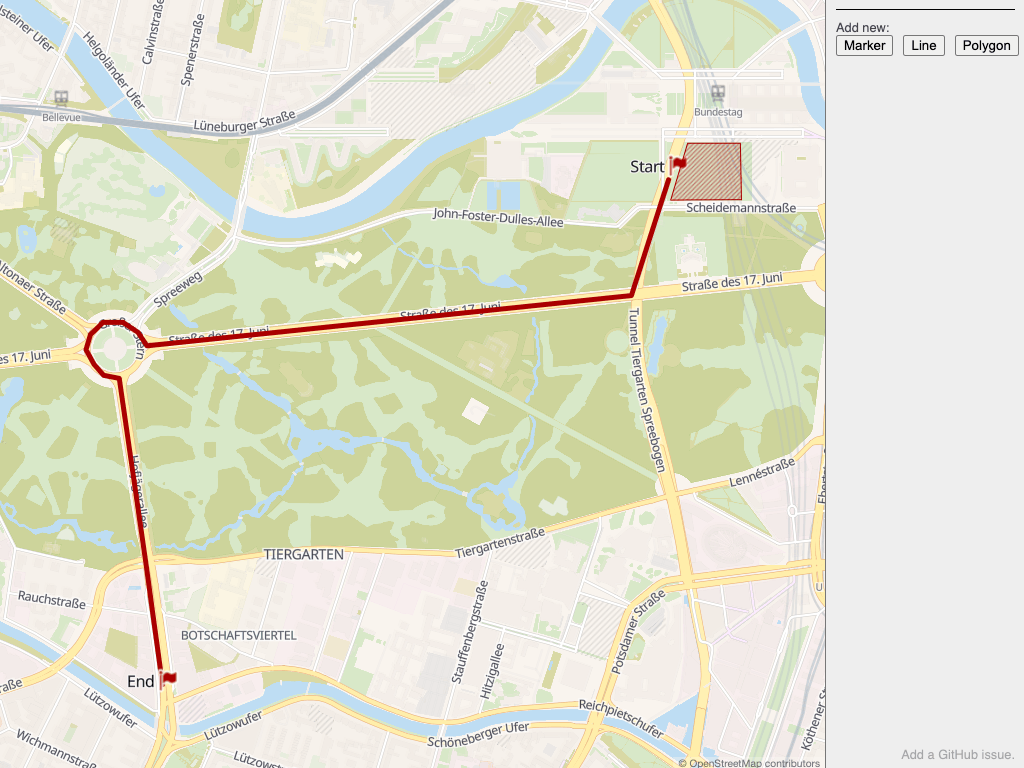
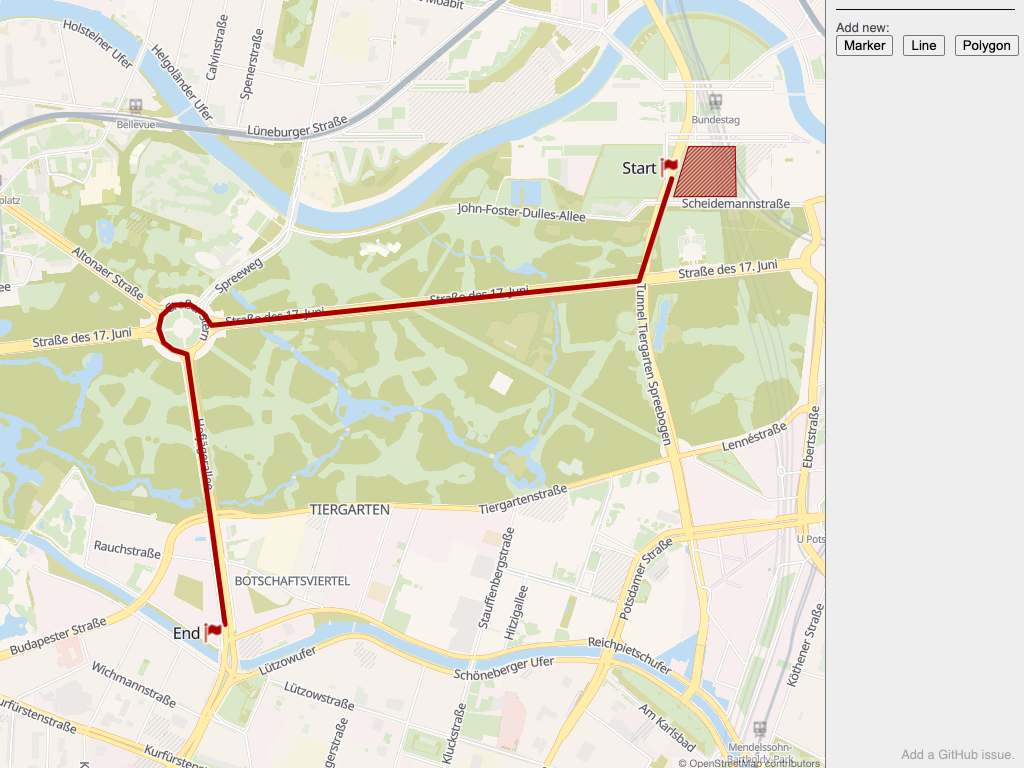
feat (MapEditor): allow labels without symbols, close #13

diff --git a/src/lib/components/MapEditor/lib/map_layer/symbol.ts b/src/lib/components/MapEditor/lib/map_layer/symbol.ts
@@ -6,92 +6,120 @@ import type { GeometryManager } from '../geometry_manager.js';
 import type { StateObject } from '../state/types.js';
 import { defaultState } from '../state/index.js';
 
-export const symbols = new Map<number, { name: string; image: string; offset?: [number, number] }>([
-	[0, { name: 'airplane', image: 'basics:icon-airfield' }],
-	[1, { name: 'airport', image: 'basics:icon-airport' }],
-	[2, { name: 'alcohol shop', image: 'basics:icon-alcohol_shop' }],
-	[3, { name: 'art gallery', image: 'basics:icon-art_gallery' }],
-	[4, { name: 'artwork', image: 'basics:icon-artwork' }],
-	[5, { name: 'atm', image: 'basics:icon-atm' }],
-	[6, { name: 'bakery', image: 'basics:icon-bakery' }],
-	[7, { name: 'bank', image: 'basics:icon-bank' }],
-	[8, { name: 'beauty', image: 'basics:icon-beauty' }],
-	[9, { name: 'beer', image: 'basics:icon-beer' }],
-	[10, { name: 'beergarden', image: 'basics:icon-beergarden' }],
-	[11, { name: 'bench', image: 'basics:icon-bench' }],
-	[12, { name: 'beverages', image: 'basics:icon-beverages' }],
-	[13, { name: 'bicycle share', image: 'basics:icon-bicycle_share' }],
-	[14, { name: 'books', image: 'basics:icon-books' }],
-	[15, { name: 'bus', image: 'basics:icon-bus' }],
-	[16, { name: 'butcher', image: 'basics:icon-butcher' }],
-	[17, { name: 'cafe', image: 'basics:icon-cafe', offset: [2, 0] }],
-	[18, { name: 'car rental', image: 'basics:icon-car_rental' }],
-	[19, { name: 'car wash', image: 'basics:icon-car_wash' }],
-	[20, { name: 'castle', image: 'basics:icon-castle' }],
-	[21, { name: 'cemetery', image: 'basics:icon-cemetery' }],
-	[22, { name: 'chalet', image: 'basics:icon-chalet' }],
-	[23, { name: 'chemist', image: 'basics:icon-chemist' }],
-	[24, { name: 'cinema', image: 'basics:icon-cinema' }],
-	[25, { name: 'clothes', image: 'basics:icon-clothes' }],
-	[26, { name: 'college', image: 'basics:icon-college' }],
-	[27, { name: 'community', image: 'basics:icon-community' }],
-	[28, { name: 'defibrillator', image: 'basics:icon-defibrillator' }],
-	[29, { name: 'doctor', image: 'basics:icon-doctor' }],
-	[30, { name: 'dog park', image: 'basics:icon-dog_park' }],
-	[31, { name: 'doityourself', image: 'basics:icon-doityourself' }],
-	[32, { name: 'drinking water', image: 'basics:icon-drinking_water' }],
-	[33, { name: 'drycleaning', image: 'basics:icon-drycleaning' }],
-	[34, { name: 'emergency phone', image: 'basics:icon-emergency_phone' }],
-	[35, { name: 'fast food', image: 'basics:icon-fast_food' }],
-	[36, { name: 'fire station', image: 'basics:icon-fire_station' }],
-	[37, { name: 'flag', image: 'basics:icon-embassy', offset: [7.5, -10] }],
-	[38, { name: 'florist', image: 'basics:icon-florist' }],
-	[39, { name: 'fountain', image: 'basics:icon-fountain' }],
-	[40, { name: 'furniture', image: 'basics:icon-furniture' }],
-	[41, { name: 'garden centre', image: 'basics:icon-garden_centre' }],
-	[42, { name: 'gift', image: 'basics:icon-gift' }],
-	[43, { name: 'glasses', image: 'basics:icon-optician' }],
-	[44, { name: 'golf', image: 'basics:icon-golf' }],
-	[45, { name: 'greengrocer', image: 'basics:icon-greengrocer' }],
-	[46, { name: 'hardware', image: 'basics:icon-hardware' }],
-	[47, { name: 'hospital', image: 'basics:icon-hospital' }],
-	[48, { name: 'huntingstand', image: 'basics:icon-huntingstand' }],
-	[49, { name: 'hydrant', image: 'basics:icon-hydrant' }],
-	[50, { name: 'icerink', image: 'basics:icon-icerink' }],
-	[51, { name: 'information', image: 'basics:transport-information' }],
-	[52, { name: 'jewelry store', image: 'basics:icon-jewelry_store' }],
-	[53, { name: 'kiosk', image: 'basics:icon-kiosk' }],
-	[54, { name: 'laundry', image: 'basics:icon-laundry' }],
-	[55, { name: 'letter', image: 'basics:icon-post' }],
-	[56, { name: 'library', image: 'basics:icon-library' }],
-	[57, { name: 'lighthouse', image: 'basics:icon-lighthouse' }],
-	[58, { name: 'marketplace', image: 'basics:icon-marketplace' }],
-	[59, { name: 'money', image: 'basics:icon-bar' }],
-	[60, { name: 'monument', image: 'basics:icon-monument' }],
-	[61, { name: 'newsagent', image: 'basics:icon-newsagent' }],
-	[62, { name: 'nightclub', image: 'basics:icon-nightclub' }],
-	[63, { name: 'nursinghome', image: 'basics:icon-nursinghome' }],
-	[64, { name: 'observation tower', image: 'basics:icon-observation_tower' }],
-	[65, { name: 'outdoor', image: 'basics:icon-outdoor' }],
-	[66, { name: 'pharmacy', image: 'basics:icon-pharmacy' }],
-	[67, { name: 'picnic site', image: 'basics:icon-picnic_site' }],
-	[68, { name: 'place of worship', image: 'basics:icon-place_of_worship' }],
-	[69, { name: 'playground', image: 'basics:icon-playground' }],
-	[70, { name: 'police', image: 'basics:icon-police', offset: [-1, -3] }],
-	[71, { name: 'postbox', image: 'basics:icon-postbox' }],
-	[72, { name: 'prison', image: 'basics:icon-prison' }],
-	[73, { name: 'rail light', image: 'basics:icon-rail_light' }],
-	[74, { name: 'rail metro', image: 'basics:icon-rail_metro' }],
-	[75, { name: 'rail', image: 'basics:icon-rail' }],
-	[76, { name: 'recycling', image: 'basics:icon-recycling' }],
-	[77, { name: 'restaurant', image: 'basics:icon-restaurant' }],
-	[78, { name: 'run', image: 'basics:icon-pitch' }],
-	[79, { name: 'school', image: 'basics:icon-school' }],
-	[80, { name: 'scissor', image: 'basics:icon-hairdresser' }],
-	[81, { name: 'shield', image: 'basics:icon-historic', offset: [0, -10] }],
-	[82, { name: 'shoes', image: 'basics:icon-shoes', offset: [-5, 0] }],
-	[83, { name: 'shop', image: 'basics:icon-shop' }],
-	[84, { name: 'shop', image: 'basics:icon-shop' }],
+export const symbols = new Map<number, { name: string; image?: string; offset?: [number, number] }>(
+	[
+		[0, { name: 'none', image: undefined }],
+		[1, { name: 'airplane', image: 'basics:icon-airfield' }],
+		[2, { name: 'airport', image: 'basics:icon-airport' }],
+		[3, { name: 'alcohol shop', image: 'basics:icon-alcohol_shop' }],
+		[4, { name: 'art gallery', image: 'basics:icon-art_gallery' }],
+		[5, { name: 'artwork', image: 'basics:icon-artwork' }],
+		[6, { name: 'atm', image: 'basics:icon-atm' }],
+		[7, { name: 'bakery', image: 'basics:icon-bakery' }],
+		[8, { name: 'bank', image: 'basics:icon-bank' }],
+		[9, { name: 'beauty', image: 'basics:icon-beauty' }],
+		[10, { name: 'beer', image: 'basics:icon-beer' }],
+		[11, { name: 'beergarden', image: 'basics:icon-beergarden' }],
+		[12, { name: 'bench', image: 'basics:icon-bench' }],
+		[13, { name: 'beverages', image: 'basics:icon-beverages' }],
+		[14, { name: 'bicycle share', image: 'basics:icon-bicycle_share' }],
+		[15, { name: 'books', image: 'basics:icon-books' }],
+		[16, { name: 'bus', image: 'basics:icon-bus' }],
+		[17, { name: 'butcher', image: 'basics:icon-butcher' }],
+		[18, { name: 'cafe', image: 'basics:icon-cafe', offset: [2, 0] }],
+		[19, { name: 'car rental', image: 'basics:icon-car_rental' }],
+		[20, { name: 'car wash', image: 'basics:icon-car_wash' }],
+		[21, { name: 'castle', image: 'basics:icon-castle' }],
+		[22, { name: 'cemetery', image: 'basics:icon-cemetery' }],
+		[23, { name: 'chalet', image: 'basics:icon-chalet' }],
+		[24, { name: 'chemist', image: 'basics:icon-chemist' }],
+		[25, { name: 'cinema', image: 'basics:icon-cinema' }],
+		[26, { name: 'clothes', image: 'basics:icon-clothes' }],
+		[27, { name: 'college', image: 'basics:icon-college' }],
+		[28, { name: 'community', image: 'basics:icon-community' }],
+		[29, { name: 'defibrillator', image: 'basics:icon-defibrillator' }],
+		[30, { name: 'doctor', image: 'basics:icon-doctor' }],
+		[31, { name: 'dog park', image: 'basics:icon-dog_park' }],
+		[32, { name: 'doityourself', image: 'basics:icon-doityourself' }],
+		[33, { name: 'drinking water', image: 'basics:icon-drinking_water' }],
+		[34, { name: 'drycleaning', image: 'basics:icon-drycleaning' }],
+		[35, { name: 'emergency phone', image: 'basics:icon-emergency_phone' }],
+		[36, { name: 'fast food', image: 'basics:icon-fast_food' }],
+		[37, { name: 'fire station', image: 'basics:icon-fire_station' }],
+		[38, { name: 'flag', image: 'basics:icon-embassy', offset: [0, 0] }],
+		[39, { name: 'florist', image: 'basics:icon-florist' }],
+		[40, { name: 'fountain', image: 'basics:icon-fountain' }],
+		[41, { name: 'furniture', image: 'basics:icon-furniture' }],
+		[42, { name: 'garden centre', image: 'basics:icon-garden_centre' }],
+		[43, { name: 'gift', image: 'basics:icon-gift' }],
+		[44, { name: 'glasses', image: 'basics:icon-optician' }],
+		[45, { name: 'golf', image: 'basics:icon-golf' }],
+		[46, { name: 'greengrocer', image: 'basics:icon-greengrocer' }],
+		[47, { name: 'hardware', image: 'basics:icon-hardware' }],
+		[48, { name: 'hospital', image: 'basics:icon-hospital' }],
+		[49, { name: 'huntingstand', image: 'basics:icon-huntingstand' }],
+		[50, { name: 'hydrant', image: 'basics:icon-hydrant' }],
+		[51, { name: 'icerink', image: 'basics:icon-icerink' }],
+		[52, { name: 'information', image: 'basics:transport-information' }],
+		[53, { name: 'jewelry store', image: 'basics:icon-jewelry_store' }],
+		[54, { name: 'kiosk', image: 'basics:icon-kiosk' }],
+		[55, { name: 'laundry', image: 'basics:icon-laundry' }],
+		[56, { name: 'letter', image: 'basics:icon-post' }],
+		[57, { name: 'library', image: 'basics:icon-library' }],
+		[58, { name: 'lighthouse', image: 'basics:icon-lighthouse' }],
+		[59, { name: 'marketplace', image: 'basics:icon-marketplace' }],
+		[60, { name: 'money', image: 'basics:icon-bar' }],
+		[61, { name: 'monument', image: 'basics:icon-monument' }],
+		[62, { name: 'newsagent', image: 'basics:icon-newsagent' }],
+		[63, { name: 'nightclub', image: 'basics:icon-nightclub' }],
+		[64, { name: 'nursinghome', image: 'basics:icon-nursinghome' }],
+		[65, { name: 'observation tower', image: 'basics:icon-observation_tower' }],
+		[66, { name: 'outdoor', image: 'basics:icon-outdoor' }],
+		[67, { name: 'pharmacy', image: 'basics:icon-pharmacy' }],
+		[68, { name: 'picnic site', image: 'basics:icon-picnic_site' }],
+		[69, { name: 'place of worship', image: 'basics:icon-place_of_worship' }],
+		[70, { name: 'playground', image: 'basics:icon-playground' }],
+		[71, { name: 'police', image: 'basics:icon-police', offset: [-1, -3] }],
+		[72, { name: 'postbox', image: 'basics:icon-postbox' }],
+		[73, { name: 'prison', image: 'basics:icon-prison' }],
+		[74, { name: 'rail light', image: 'basics:icon-rail_light' }],
+		[75, { name: 'rail metro', image: 'basics:icon-rail_metro' }],
+		[76, { name: 'rail', image: 'basics:icon-rail' }],
+		[77, { name: 'recycling', image: 'basics:icon-recycling' }],
+		[78, { name: 'restaurant', image: 'basics:icon-restaurant' }],
+		[79, { name: 'run', image: 'basics:icon-pitch' }],
+		[80, { name: 'school', image: 'basics:icon-school' }],
+		[81, { name: 'scissor', image: 'basics:icon-hairdresser' }],
+		[82, { name: 'shield', image: 'basics:icon-historic', offset: [0, -10] }],
+		[83, { name: 'shoes', image: 'basics:icon-shoes', offset: [-5, 0] }],
+		[84, { name: 'shop', image: 'basics:icon-shop' }],
+		[85, { name: 'shop', image: 'basics:icon-shop' }],
+		[86, { name: 'shrine', image: 'basics:icon-shrine' }],
+		[87, { name: 'sports', image: 'basics:icon-sports' }],
+		[88, { name: 'stadium', image: 'basics:icon-stadium' }],
+		[89, { name: 'stationery', image: 'basics:icon-stationery' }],
+		[90, { name: 'surveillance', image: 'basics:icon-surveillance' }],
+		[91, { name: 'swimming', image: 'basics:icon-swimming' }],
+		[92, { name: 'telephone', image: 'basics:icon-telephone' }],
+		[93, { name: 'theatre', image: 'basics:icon-theatre' }],
+		[94, { name: 'toilet', image: 'basics:icon-toilet' }],
+		[95, { name: 'tooth', image: 'basics:icon-dentist' }],
+		[96, { name: 'town hall', image: 'basics:icon-town_hall' }],
+		[97, { name: 'toys', image: 'basics:icon-toys' }],
+		[98, { name: 'tram', image: 'basics:transport-tram' }],
+		[99, { name: 'travel agent', image: 'basics:icon-travel_agent' }],
+		[100, { name: 'vendingmachine', image: 'basics:icon-vendingmachine' }],
+		[101, { name: 'veterinary', image: 'basics:icon-veterinary' }],
+		[102, { name: 'video', image: 'basics:icon-video' }],
+		[103, { name: 'viewpoint', image: 'basics:icon-viewpoint', offset: [0, -6] }],
+		[104, { name: 'waste basket', image: 'basics:icon-waste_basket' }],
+		[105, { name: 'watermill', image: 'basics:icon-watermill' }],
+		[106, { name: 'waterpark', image: 'basics:icon-waterpark' }],
+		[107, { name: 'windmill', image: 'basics:icon-windmill' }],
+		[108, { name: 'zoo', image: 'basics:icon-zoo' }]
+	]
+);
+
 const defaultStyle = {
 	color: '#ff0000',
 	rotate: 0,
@@ -133,8 +161,9 @@ export class MapLayerSymbol extends MapLayer<LayerSymbol> {
 				'text-field': defaultStyle.label,
 				'text-font': ['noto_sans_regular'],
 				'text-justify': 'left',
-				'text-anchor': 'right',
-				'text-offset': [-0.4, -0.6]
+				'text-optional': true,
+				'text-offset': [0.7, 0.7],
+				'text-variable-anchor': ['right', 'left', 'top', 'bottom']
 			},
 			{
 				'icon-color': defaultStyle.color,
@@ -160,8 +189,14 @@ export class MapLayerSymbol extends MapLayer<LayerSymbol> {
 			this.updateLayout('text-size', v * 16);
 		});
 		this.symbol.subscribe((v) => {
-			this.updateLayout('icon-image', v.image);
-			this.updateLayout('icon-offset', v.offset);
+			if (v.image == null) {
+				this.updateLayout('icon-image', undefined);
+				this.updateLayout('text-variable-anchor', ['center']);
+			} else {
+				this.updateLayout('icon-image', v.image);
+				this.updateLayout('text-variable-anchor', ['right', 'left', 'top', 'bottom']);
+				this.updateLayout('icon-offset', v.offset);
+			}
 		});
 	}
 

diff --git a/scripts/screenshots.ts b/scripts/screenshots.ts
@@ -20,7 +20,7 @@ mkdirSync(path, { recursive: true });
 		{ name: 'locator-map', hash: '#14.89/13.408956/52.519744' },
 		{
 			name: 'map-editor',
-			hash: '#45Lr613MeKWlkdWni5tBhMWIUZ532ZzFjDOZrso4F05ljFe08yg7xVjX1NPIOpXlOaOdHoO5q7Mh72W29SzcGqsYGLy/MDMwGDHIzfu3iPHczwZWsKANs2teClh425zFjFN6GqHCrMEliUUlDAxGTPIs5xYsZmTvZ65f1t3I2sLE0MoEVuJu4MHEwAM2OIWBgQEA'
+			hash: '#45L70LWY8VJzI6vPDCYGERYjRnneZXMWM85kuirjXDiZMVFcK6jsFGNdU08j61SW54x2eozmzu6qopfZ1rNwa6xiYPA2YmAwYpA79ncR476fDaxgMRtm17wUsPCkOYsZ9/Q0QoVZg0sSi0oYGIyY5FnOLVjMyN7PXL+su5G1hYmhlQmsxD3Fg4mBB2wuFwMDAwA='
 		}
 	];
 
